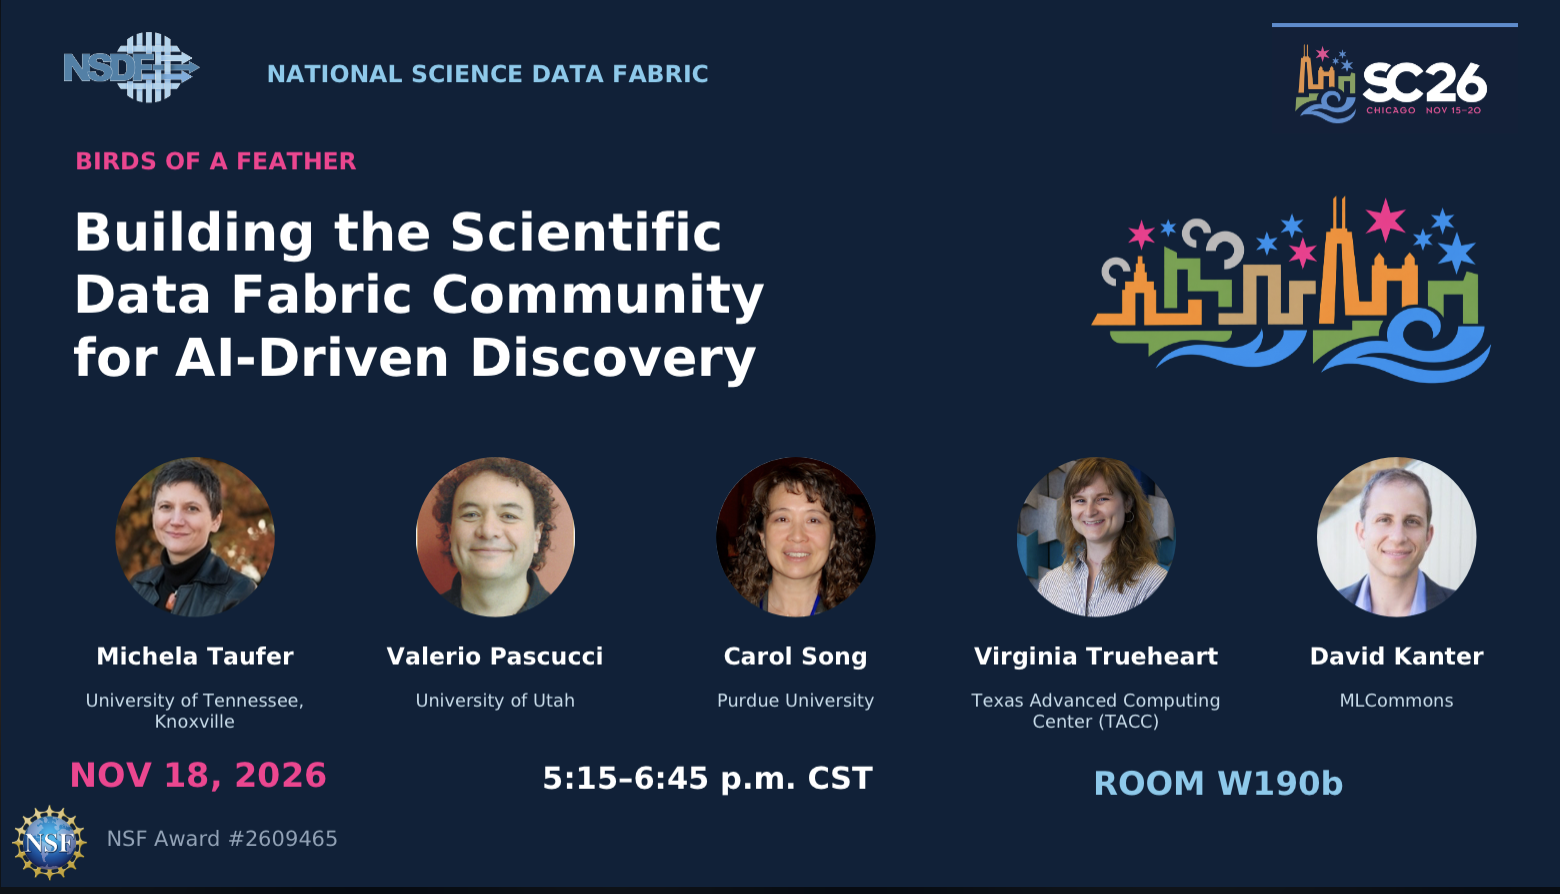
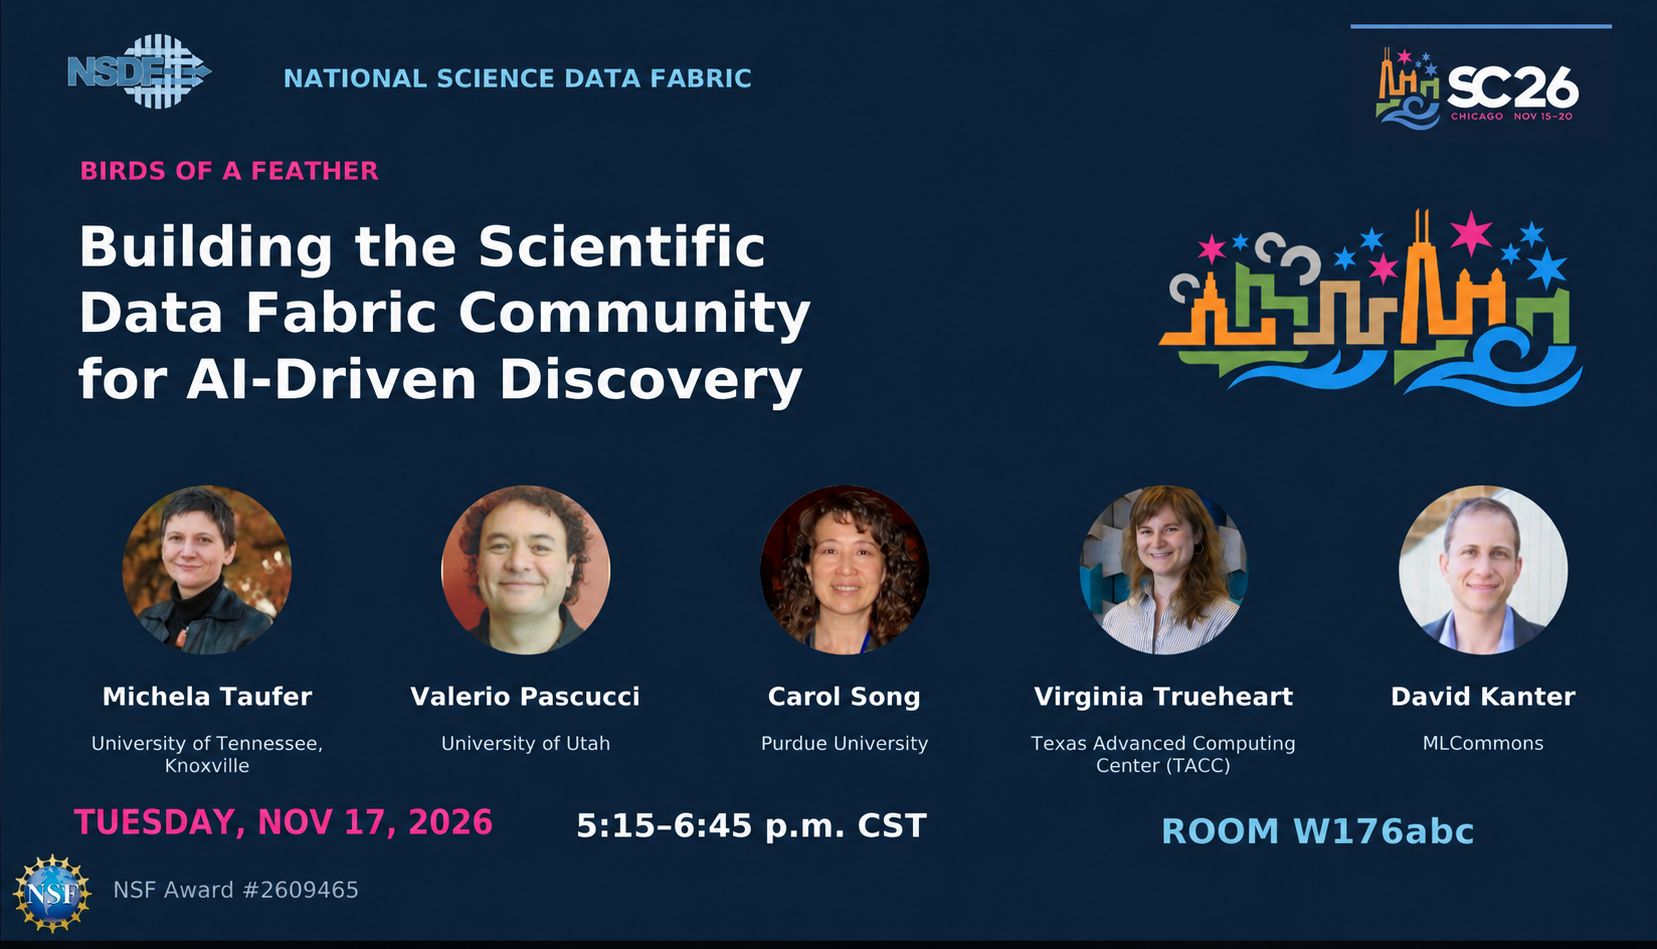
Feat: update location/date for SC26 bof (#64)
* feat: Add ACCESS Oct 2026 News article

* fix: fixes link to nitm-hpc-stewardship on recent News page

* feat: Add Summit impact news

* feat: Update Summit Group Photo

* feat: news update, adding TACC's nitm article

* feat: Update sc26 bof date/location

diff --git a/_news/bof-scientific-data-fabric.md b/_news/bof-scientific-data-fabric.md
@@ -23,7 +23,7 @@ Through the discussion, the NSDF leadership aims to engage the broader scientifi
   
 
 
-**Session details:** Wednesday, Nov. 18, 2026, 5:15–6:45 p.m. CST, W190b.   
+**Session details:** Tuesday, Nov. 17, 2026, 5:15–6:45 p.m. CST, Location: W176abc
 
 <a href= "https://sc26.conference-program.com/presentation/?id=bof177&sess=sess414" target="_blank">View the SC26 session.</a>
 
